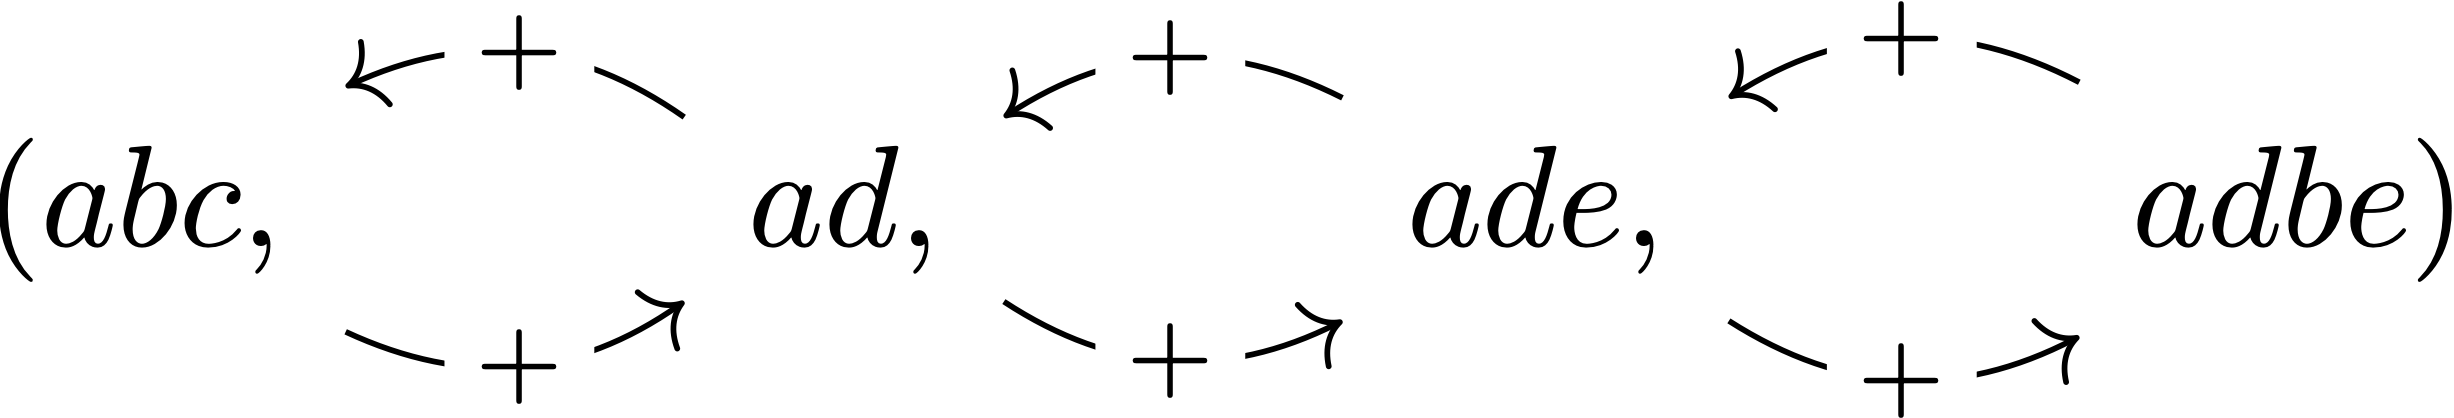
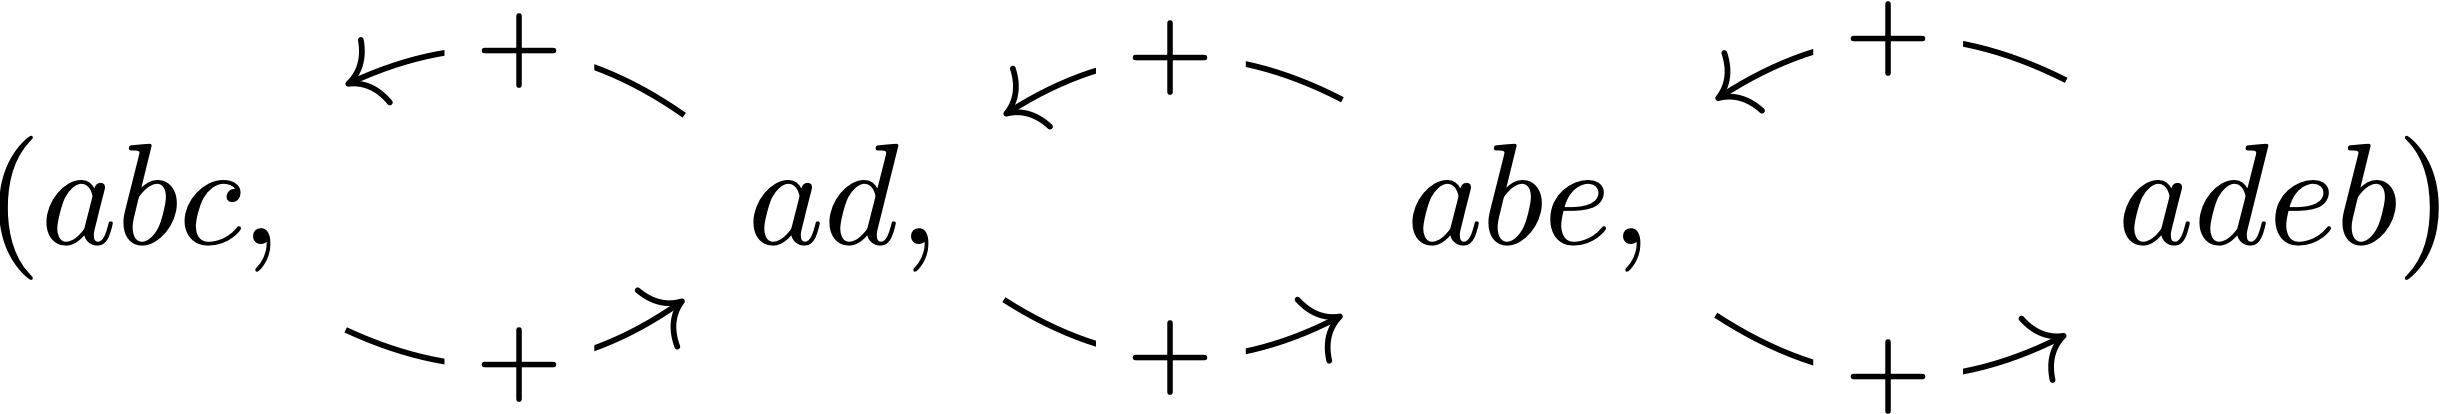
documentation deployed to gh-pages

diff --git a/index.html b/index.html
@@ -1920,7 +1920,7 @@ where \$q_i\$ is a coefficient, \$x^i\$ is an indeterminate, \$q_i x^i\$ is a te
 <p><code>(x0{q0},x1{q1},x2{q2},&#8230;&#8203;,xn{qn})</code></p>
 </div>
 <div class="paragraph">
-<p>where <code>qi</code> is a <em>quantifier</em> (coefficient), <code>xi</code> is an <em>object</em> (indeterminate), <code>xi{qi}</code> is an <code>obj</code> (term), and the <code>objs</code> are linearly combined via <code>,</code>. This particular <code>poly</code> is called a <code>,-poly</code> that captures the typical realization of a polynomial. As a data structure, a <code>,-poly</code> is a <a href="https://en.wikipedia.org/wiki/Multiset">multi-set</a> or bag. As an algebraic structure, a <code>,-poly</code> is a <a href="https://en.wikipedia.org/wiki/Polynomial_ring">polynomial ring</a> that encodes the mm-ADT virtual machine&#8217;s underlying <a href="https://zenodo.org/record/2565243">stream ring algebra</a> additive and multiplicative magmas as a <a href="https://en.wikipedia.org/wiki/Free_group">free abelian group</a> \$\langle F(\tt{obj}),+\rangle\$ and an non-free monoid \$\langle \tt{obj},\ast \rangle\$, respectively.</p>
+<p>where <code>qi</code> is a <em>quantifier</em> (coefficient), <code>xi</code> is an <em>object</em> (indeterminate), <code>xi{qi}</code> is an <code>obj</code> (term), and the <code>objs</code> are linearly combined via <code>,</code>. This particular <code>poly</code> is called a <code>,-poly</code> that captures the typical realization of a polynomial. As a data structure, a <code>,-poly</code> is a <a href="https://en.wikipedia.org/wiki/Multiset">multi-set</a> or bag. As an algebraic structure, a <code>,-poly</code> is a <a href="https://en.wikipedia.org/wiki/Polynomial_ring">polynomial ring</a> that faithfully encodes the mm-ADT processor&#8217;s additive and multiplicative <a href="https://zenodo.org/record/2565243">type ringoid</a> magmas as a <a href="https://en.wikipedia.org/wiki/Free_group">free abelian group</a> \$\langle F(\tt{obj}),+\rangle\$ and a non-free monoid \$\langle \tt{obj},\ast \rangle\$, respectively.</p>
 </div>
 <div class="imageblock left">
 <div class="content">
@@ -1928,10 +1928,16 @@ where \$q_i\$ is a coefficient, \$x^i\$ is an indeterminate, \$q_i x^i\$ is a te
 </div>
 </div>
 <div class="paragraph">
-<p>The illustration (or suggestive diagram) on the left has four multiplicative <a href="https://en.wikipedia.org/wiki/Monoid">monoid</a> compositions rooted at \$a\$ and going up via a chain of \$\ast\$-compositions. Furthermore, the additive <a href="https://en.wikipedia.org/wiki/Abelian_group">abelian group</a> is diagrammed left-to-right. As a <a href="https://en.wikipedia.org/wiki/Polynomial_ring">polynomial ring</a>, <code>,-poly</code> maintains the free (unevaluated) additive group separate from the non-free (evaluating) multiplicative monoid such that the diagram&#8217;s \$\ast\$-compositions would yield a single element denoted in <code>mmlang</code> as</p>
+<p>The illustration (or suggestive diagram) on the left depicts an element of a free ring. There are four multiplicative <a href="https://en.wikipedia.org/wiki/Monoid">monoid</a> compositions rooted at \$a\$ and going up via a chain of \$\ast\$-compositions and there is a single additive <a href="https://en.wikipedia.org/wiki/Abelian_group">abelian group</a> element diagrammed left-to-right. As horizontal and vertical compositions, each depicts element(s) of a free magma. A <code>poly</code> enables one magma to remain free (unevalated) and the other to be non-free (evaluated). In particular, as a classic <a href="https://en.wikipedia.org/wiki/Polynomial_ring">polynomial ring</a>, <code>,-poly</code> maintains the free additive group separate from the non-free multiplicative monoid such that the diagram&#8217;s vertical \$\ast\$-compositions would "collapse" yielding 4 isolated terms (<code>objs</code>) specified in <code>mmlang</code> as</p>
 </div>
 <div class="paragraph text-center">
 <p><code>(abc{q0},ad{q1},abe{q2},adeb{q3})</code>.</p>
+</div>
+<div class="paragraph">
+<p>If the multiplicative monoid compositions yielded values (evaluations) as opposed to types (compilations) and \$x_0 = a(bc)\$, \$x_1 = ad\$, \$x_2 = a(be)\$, and \$x_3 = a(d(eb))\$, then the resultant <code>,-poly</code> structure would be</p>
+</div>
+<div class="paragraph text-center">
+<p><code>(x0{q0},x1{q1},x2{q2},x3{q3})</code>.</p>
 </div>
 <div class="admonitionblock note">
 <table>
@@ -1940,19 +1946,13 @@ where \$q_i\$ is a coefficient, \$x^i\$ is an indeterminate, \$q_i x^i\$ is a te
 <i class="fa icon-note" title="Note"></i>
 </td>
 <td class="content">
-Note that quantifiers are not diagrammed in the image and the reason for there being only a single quantifier for every element of the multiplicative monoid is forthcoming.
+For visual simplicity, quantifiers were not diagrammed. Furthermore, the reason that every term of the multiplicative monoid only has a single quantifier is due to the <em>universal commutativity of coefficients theorem</em> of <a href="https://zenodo.org/record/2565243">stream ring theory</a>. This theorem is used in mm-ADT compiler optimization and will be discussed at length in a later section of the documentation.
 </td>
 </tr>
 </table>
 </div>
 <div class="paragraph">
-<p>If the <code>objs</code> of the multiplicative monoid are values (as opposed to free types), then the expression above further reduces to an expression of the form</p>
-</div>
-<div class="paragraph text-center">
-<p><code>(x0{q0},x1{q1},x2{q2},x3{q3})</code>.</p>
-</div>
-<div class="paragraph">
-<p>In general, an mm-ADT <code>poly</code> is used to <em>decouple</em> one algebraic structure from another such that one be free and the other non-free. From the perspective of applied computing, the free algebras are <a href="https://en.wikipedia.org/wiki/Lazy_evaluation">delayed</a>, unevaluated structures and the non-free algebras are <a href="https://en.wikipedia.org/wiki/Eager_evaluation">eager</a>, evaluated structures. Each type of <code>poly</code> realizes a particular algebraic structure with useful computing properties.</p>
+<p>In general, an mm-ADT <code>poly</code> is used to <em>decouple</em> two algebraic structures such that one is free and the other non-free. From the perspective of applied computing, the free algebras are <a href="https://en.wikipedia.org/wiki/Lazy_evaluation">delayed</a>, unevaluated structures and the non-free algebras are <a href="https://en.wikipedia.org/wiki/Eager_evaluation">eager</a>, evaluated structures. Each kind of <code>poly</code> (<code>,</code>, <code>|</code>, or <code>;</code>) realizes a particular algebraic structure with useful computing properties.</p>
 </div>
 <table class="tableblock frame-all grid-all stretch">
 <colgroup>
@@ -3999,7 +3999,7 @@ o1    [a,t1]                := t1(o1) != {<span style="color:#00D">0</span>}</co
 </div>
 <div id="footer">
 <div id="footer-text">
-Last updated 2020-07-11 17:16:53 -0600
+Last updated 2020-07-12 00:09:41 -0600
 </div>
 </div>
 <script type="text/x-mathjax-config">
